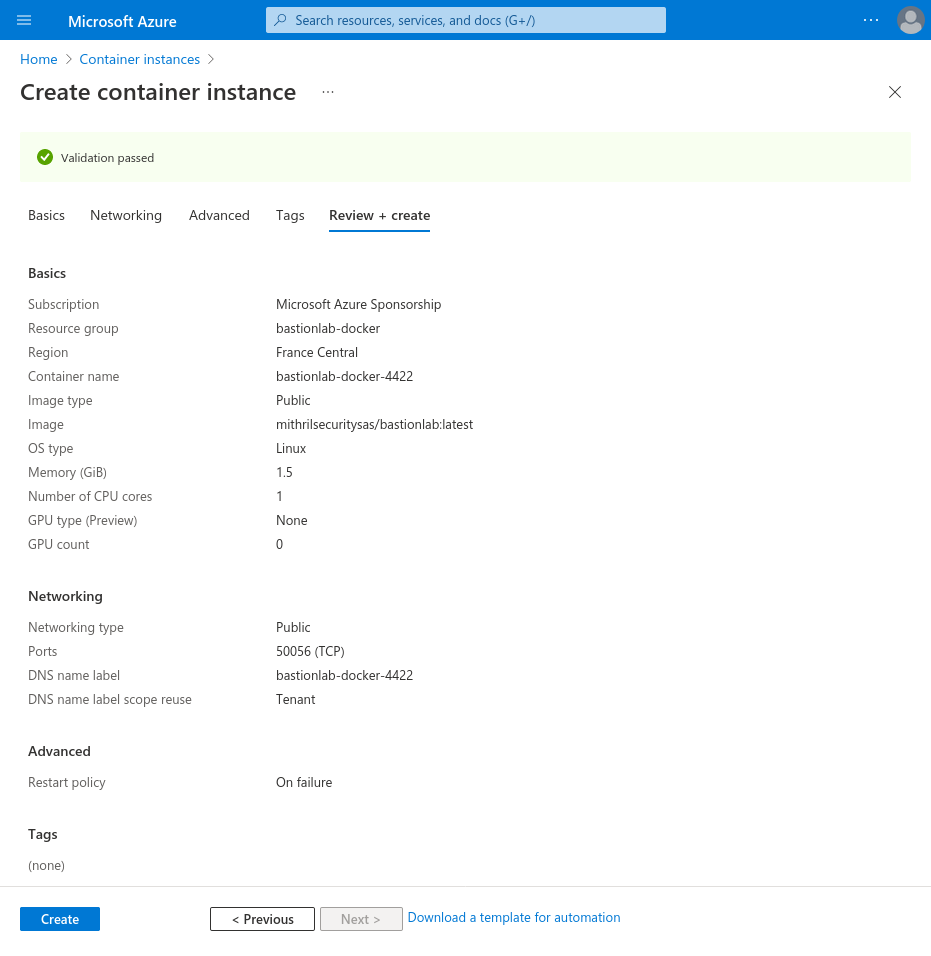
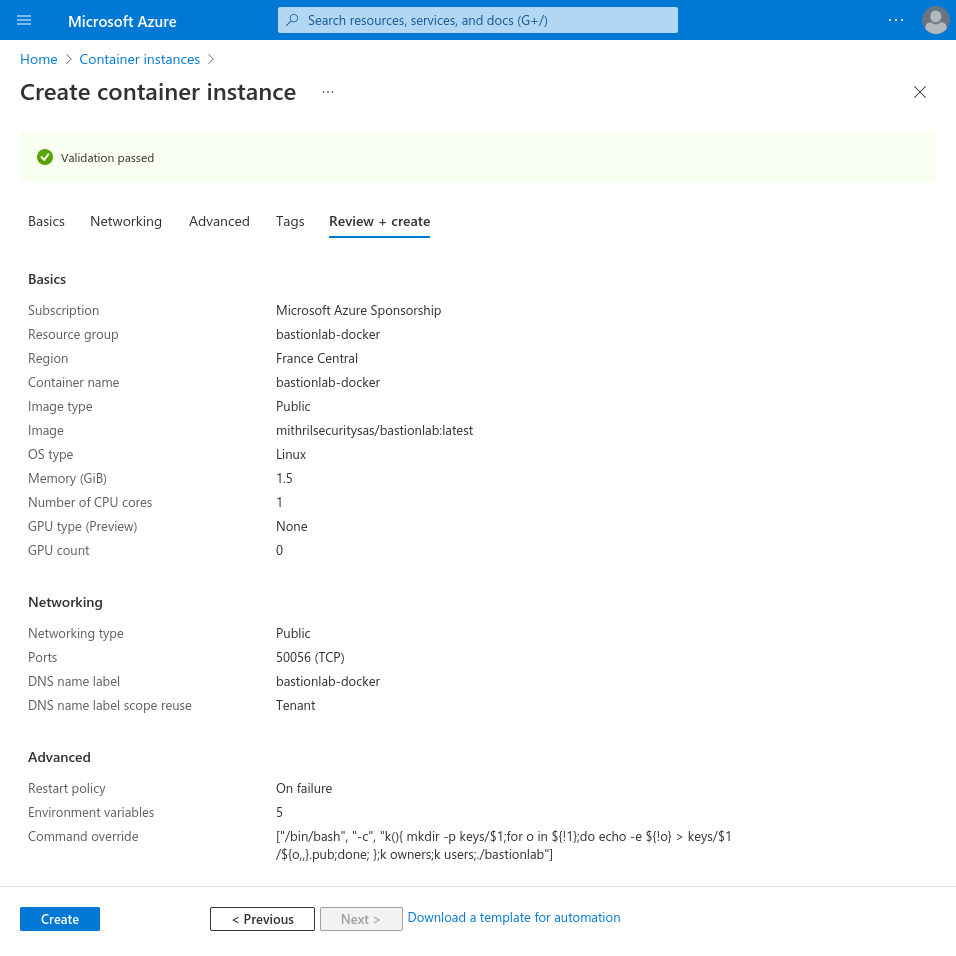
azure deploy docV1

diff --git a/docs/docs/getting-started/deploy-azure.md b/docs/docs/getting-started/deploy-azure.md
@@ -28,27 +28,98 @@ If deploying with **Azure CLI** in your local environment, then you will need to
 _____________________________________________
 
 First you will need to login to your [Azure Portal](https://portal.azure.com/) and create a **resource group**.
-### Create a resource group
+### Create a Resource Group
 <img src="../../assets/az-resource-group.png" alt="resource group" width="90%" />
 
-Then go to the **Container instances** section in your azure portal.
-### Setup basic configuration
+### Create a Container Instance
+Now go to the **Container instances** section in your azure portal.
+#### Basic configuration
+Choose your *resource group*, *container name* and *region*.
+Then to select the bastionlab docker image, choose the **other registry** option and then **public**.
+
+You can copy and paste the image from here:
+
+```    
+mithrilsecuritysas/bastionlab:latest
+```
+
 <img src="../../assets/az-container-instance.png" alt="resource group" width="90%" />
 
-### Setup networking
-Let the **public type networking** option, set your DNS label and set the port to 50056.
+#### Networking
+Let the **public type networking** option, set your DNS label and set the port to **50056**.
 
 <img src="../../assets/az-container-instance-net.png" alt="resource group" width="90%" />
 
 Leave all other settings as their defaults, then select Review + create.
 
-### Create container instance
+#### Advanced Section
+Here you will define the keys used for authenticating on the server.
+It is important that the **values** of the **keys** have their break lines replaced by the literal value "\n".
+
+```bash
+cat your_key.pub | sed ':a;N;$!ba;s/\n/\\n/g'
+# your_key.pub:
+# -----BEGIN PUBLIC KEY-----
+# MFkwEwYHKoZIzj0CAQYIKoZIzj0DAQcDQgAEmRmCI6VPiVsZwJGlfkFPIg9b1tad
+# c2YwsxfksNvtNcHCo8ZlMUR5mBBWvo6KiLXmwmLxXzMK2IMl6CHf+2YHFQ==
+# -----END PUBLIC KEY-----
+# Output:
+# -----BEGIN PUBLIC KEY-----\nMFkwEwYHKoZIzj0CAQYIKoZIzj0DAQcDQgAEmRmCI6VPiVsZwJGlfkFPIg9b1tad\nc2Ywsxf>
+```
+
+And it is also important to create one key named `owners`, that contains the names of every *ownerN* key, and also a `users` key that contains the names of every *userN* key.
+
+Last step, but as important as the others, set the **command override** as:
+
+##### Command override
+```bash
+["/bin/bash", "-c", "k(){ mkdir -p keys/$1;for o in ${!1};do echo -e ${!o} > keys/$1/${o,,}.pub;done; };k owners;k users;./bastionlab"]
+```
+##### Equivalent
+```bash
+k()
+{
+	mkdir -p keys/$1
+	for o in ${!1}
+	do
+		echo -e ${!o} > keys/$1/${o,,}.pub
+	done
+}
+k owners
+k users
+./bastionlab
+```
+<img src="../../assets/az-container-instance-keys.png" alt="resource group" width="90%" />
+
+#### Review + Create
 Review the settings and create the container instance.
 
 <img src="../../assets/az-container-instance-create.png" alt="resource group" width="90%" />
 
-### Uploading authentication public keys
-<img src="../../assets/az-container-instance-keys.png">
+
+And **Congratulations!** Your *BastionLab server* is deployed!
+
+You can confirm it's running by seeing the log on your **bastionlab-docker** container page.
+
+<img src="../../assets/az-container-instance-logs.png" alt="resource group" width="90%" />
+
+Or connect to the instance terminal in the same page.
+
+<img src="../../assets/az-container-instance-bash.png" alt="resource group" width="90%" />
+
+### Quick Reference
+##### Replace break lines by \n in your public key
+```bash
+cat your_key.pub | sed ':a;N;$!ba;s/\n/\\n/g'
+```
+##### Command override
+```bash
+["/bin/bash", "-c", "k(){ mkdir -p keys/$1;for o in ${!1};do echo -e ${!o} > keys/$1/${o,,}.pub;done; };k owners;k users;./bastionlab"]
+```
+##### BastionLab server image
+```
+mithrilsecuritysas/bastionlab:latest
+```
 
 ## Deploying with Azure CLI
 ______________________________________________
@@ -60,14 +131,19 @@ az login
 ### Basic Configuration Setup
 Make sure to set *resource group name*, *app name*, *location* and the *docker image* variables according to your needs.
 
-##### Set variables (example values)
+#### Set Variables (with example values)
 ```bash
-resourceGroupName="docker-bastionlab"
+resourceGroupName="bastionlab-docker"
 appName="bastionlab-docker-$RANDOM"
 location="eastus"
 bastionLabImage="mithrilsecuritysas/bastionlab:latest"
+owner1=$(cat owner1_key.pub | sed ':a;N;$!ba;s/\n/\\n/g')
+owner2=$(cat owner2_key.pub | sed ':a;N;$!ba;s/\n/\\n/g')
+owners="owner1 owner2"
+user1=$(cat user1_key.pub | sed ':a;N;$!ba;s/\n/\\n/g')
+users="user1"
 ```
-##### Create a Resource Group
+### Create a Resource Group
 ```bash
 az group create --name $resourceGroupName --location $location
 ```
@@ -79,7 +155,10 @@ az container create \
         --resource-group $resourceGroupName \
         --image $bastionLabImage \
         --dns-name-label $appName \
-        --ports 50056
+        --ports 50056 \
+	--environment-variables owner1="$owner1" owner2="$owner2" owners="$owners" user1="$user1" users="$users" \
+	--command-line '/bin/bash -c "k(){ mkdir -p keys/$1;for o in ${!1};do echo -e \"${!o}\" > keys/$1/${o,,}.pub;done; };k owners;k users;./bastionlab"'
+
 ```
 
 ### Show FQDN and Provisioning State
@@ -97,7 +176,13 @@ az container show \
 If the `ProvisioningState` is **Succeeded**, congratulations! You have deployed succesfully your application in a running Docker container on Azure Cloud.
 
 ```bash
-FQDN                               ProvisioningState
----------------------------------  -------------------
-<fqdn>				   Succeeded
+FQDN                                                     ProvisioningState
+-------------------------------------------------------  -------------------
+bastionlab-docker-30195.francecentral.azurecontainer.io  Succeeded
 ```
+
+You can also manage your BastionLab Server instance in your portal.
+
+<img src="../../assets/az-container-instance-cli.png" alt="resource group" width="90%" />
+
+

diff --git a/docs/docs/getting-started/installation.md b/docs/docs/getting-started/installation.md
@@ -10,14 +10,15 @@ ___________________________________________
 
 To install **BastionLab Client and BastionLab Server**, ensure the following are already installed in your system:
 
-- Python3.7 or greater *(get the latest version of Python at [https://www.python.org/downloads/](https://www.python.org/downloads/) or with your operating system’s package manager)*
-- [Python Pip](https://pypi.org/project/pip/) (PyPi), the package manager
+- Python3.7 or greater
+    - You can get the official latest version of Python at [python.org](https://www.python.org/downloads/) or with your operating system's package manager.
+- [Python Pip](https://pypi.org/project/pip/) (PyPi)
+    - The package manager
 
 To install **BastionLab Server**, you'll also need:
 
 - [Docker](https://www.docker.com/) 
-
-*Here's the [Docker official tutorial](https://docker-curriculum.com/) to set it up on your computer.*
+    - Here's the [Docker official tutorial](https://docker-curriculum.com/) to set it up on your computer.
 
 ## Installing BastionLab Client
 _____________________________________________
@@ -81,7 +82,7 @@ docker run -p 50056:50056 -d mithrilsecuritysas/bastionlab:latest
 Clone the repository and build the image using the Dockerfile:
 ```bash
 git clone https://github.com/mithril-security/bastionlab.git
-cd ./bastionlab/server
+cd ./bastionlab
 docker build -t bastionlab:0.1.0 -t bastionlab:latest .
 ```
 Then run a container based on the image:
